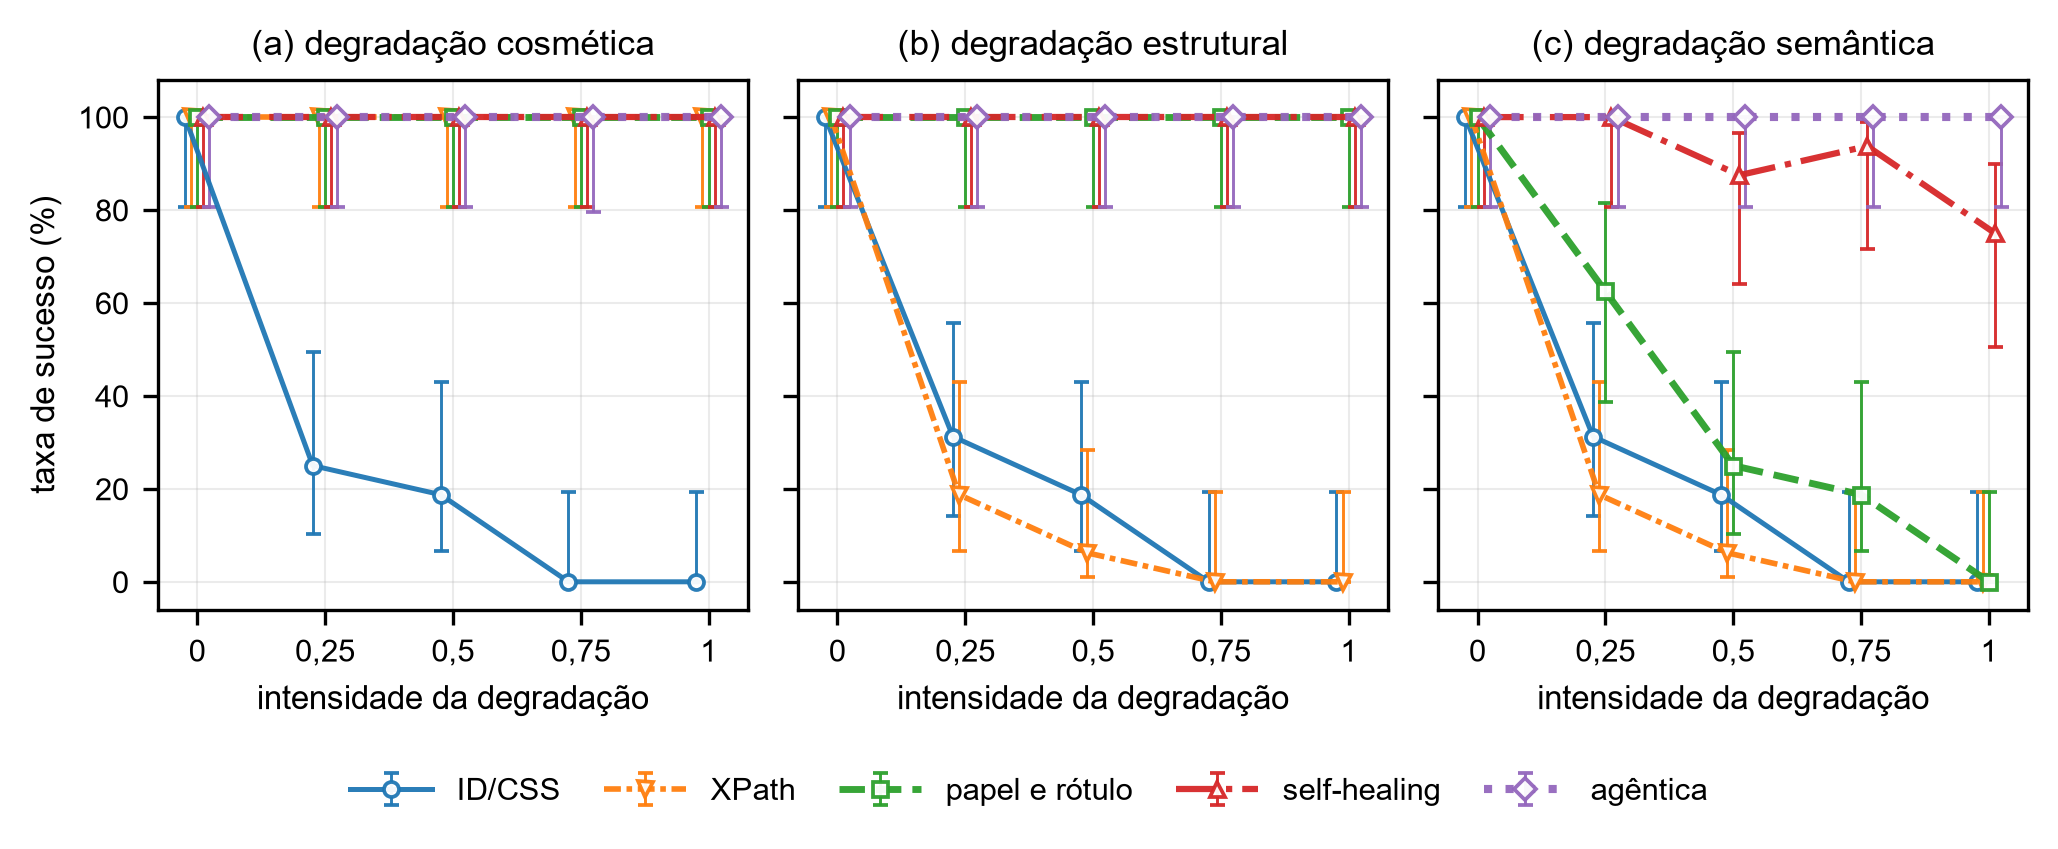
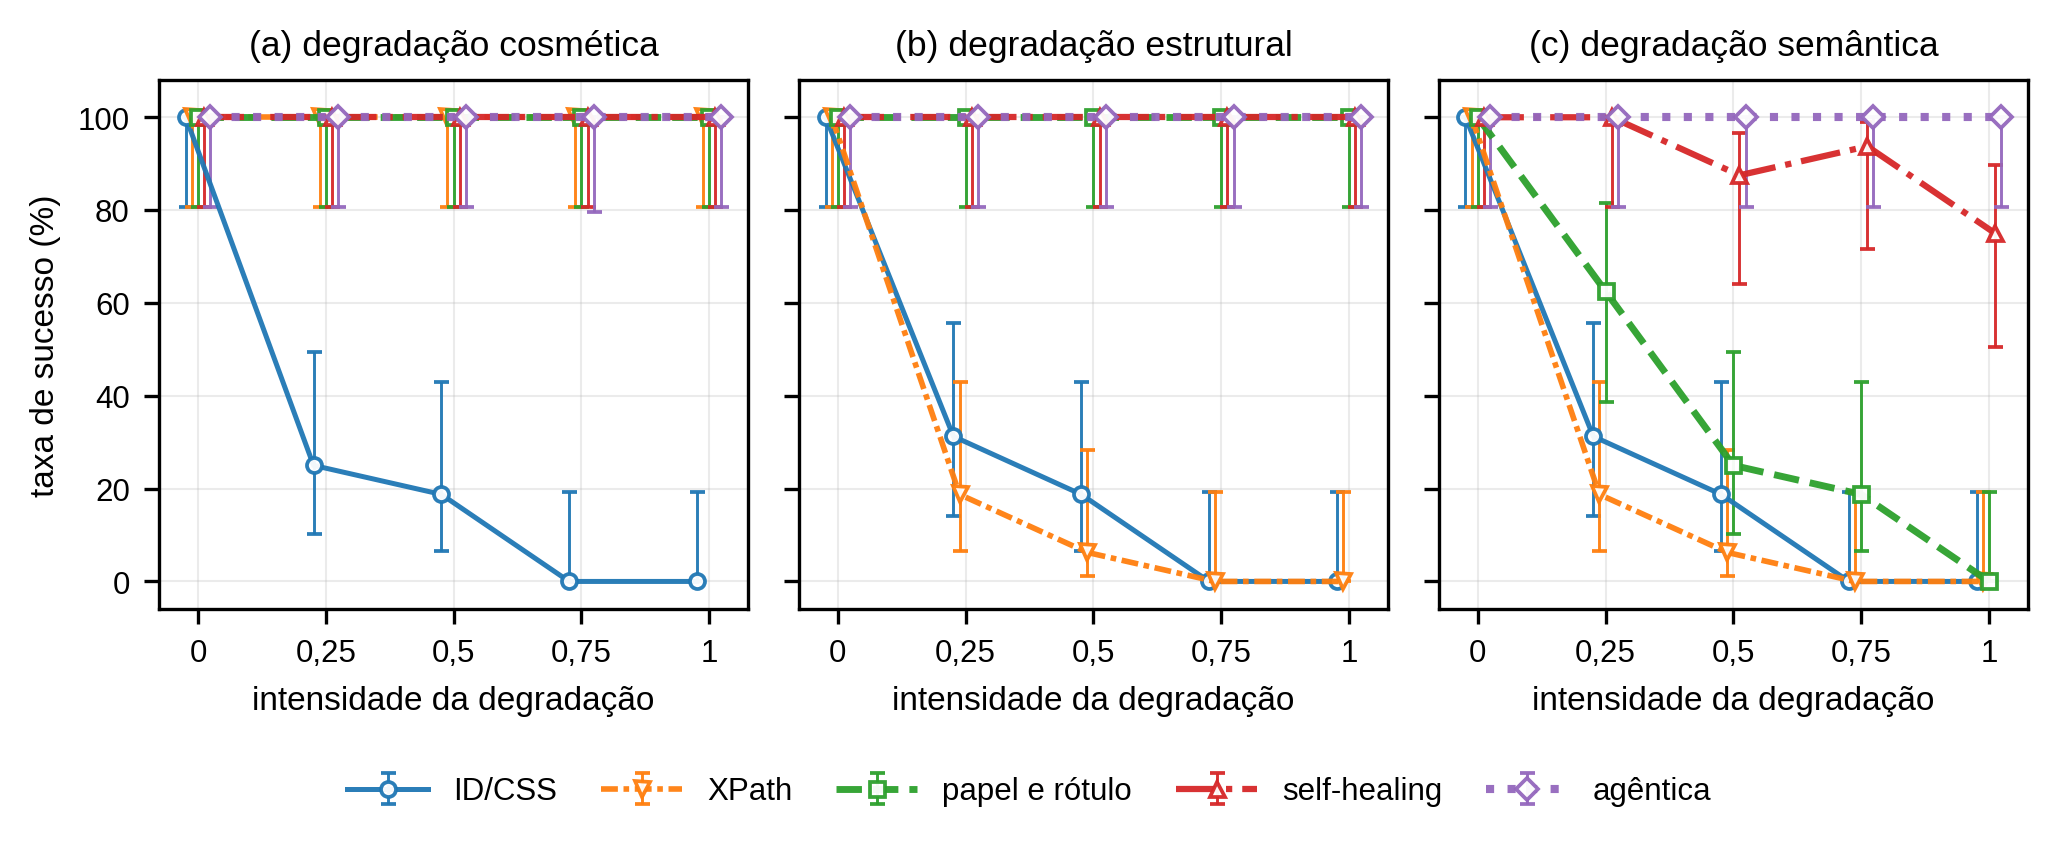
Figuras complementares com o mesmo modelo de custo do artigo

diff --git a/figuras.py b/figuras.py
@@ -261,7 +261,7 @@ def figura_equilibrio(plt, cinza: bool, hora: float, conserto_h: float,
             if b not in medidas:
                 continue
             ys = [custo_anual(medidas, b, execs, f, custo_conserto,
-                              True, latencia, tipo)["total"]
+                              False, latencia, tipo)["total"]
                   for f in frequencias]
             e = ESTILO[b]
             eixo.plot(frequencias, ys, label=NOME[b], color=e["cor"],
@@ -269,7 +269,7 @@ def figura_equilibrio(plt, cinza: bool, hora: float, conserto_h: float,
         # Marca o cruzamento contra o self-healing, que é o comparador da
         # hipótese primária e a melhor alternativa determinística.
         pe = ponto_de_equilibrio(medidas, "healing", execs, custo_conserto,
-                                 True, latencia, tipo)
+                                 False, latencia, tipo)
         if pe is not None and 0 < pe <= frequencias[-1]:
             eixo.axvline(pe, color="black", ls=(0, (1, 2)), lw=1.2)
             eixo.annotate(f"equilíbrio\n{pe:.1f}/ano", (pe, eixo.get_ylim()[1]),
@@ -296,8 +296,11 @@ LEGENDAS = """LEGENDAS DAS FIGURAS — padrão RICT/Facens (NBR 6022)
 Regra do modelo: número e título ACIMA da figura, em Arial 12; fonte ABAIXO,
 centralizada, em Arial 10.
 
+Figuras complementares, fora do artigo. A Figura 1 do artigo é
+fig1_sucesso.png, gerada por figura1_sucesso.py.
+
 --------------------------------------------------------------------------
-Figura 1 - Taxa de sucesso por abordagem, tipo e intensidade de degradação
+Figura complementar A - Taxa de sucesso por abordagem, tipo e intensidade de degradação
 [figura]
 Fonte: elaborado pelo autor (2026). As barras verticais representam o intervalo
 de confiança de Wilson a 95%, com 16 execuções por ponto (menos na abordagem
@@ -305,15 +308,16 @@ agêntica quando houve exclusão). Os pontos de cada abordagem foram deslocados
 horizontalmente para não se sobreporem.
 
 --------------------------------------------------------------------------
-Figura 2 - Tempo de execução e compromisso entre confiabilidade e custo
+Figura complementar B - Tempo de execução e compromisso entre confiabilidade e custo
 [figura, uso opcional]
 Fonte: elaborado pelo autor (2026). Eixo do tempo em escala logarítmica.
 
 --------------------------------------------------------------------------
-Figura 5 - Custo anual por abordagem em função da frequência de mudanças semânticas
+Figura complementar C - Custo anual por abordagem em função da frequência de mudanças semânticas
 [figura, uso opcional]
-Fonte: elaborado pelo autor (2026). Premissas: 0,5 h por intervenção, R$ 250 a
-hora, 1 dia útil até detectar a quebra, câmbio de R$ 5,19 por dólar.
+Fonte: elaborado pelo autor (2026). Modelo da seção 3.9 do artigo: custo médio
+por execução concluída, 0,5 h por intervenção a R$ 250 a hora, câmbio de
+R$ 5,19 por dólar, sem o custo da automação parada.
 """
 
 
